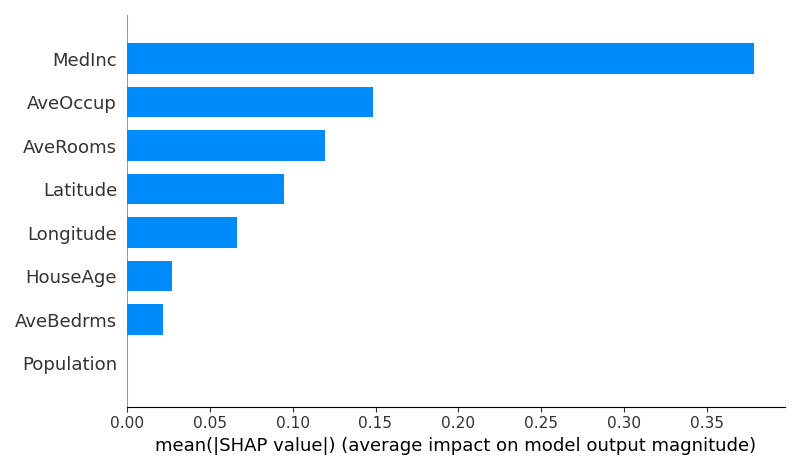
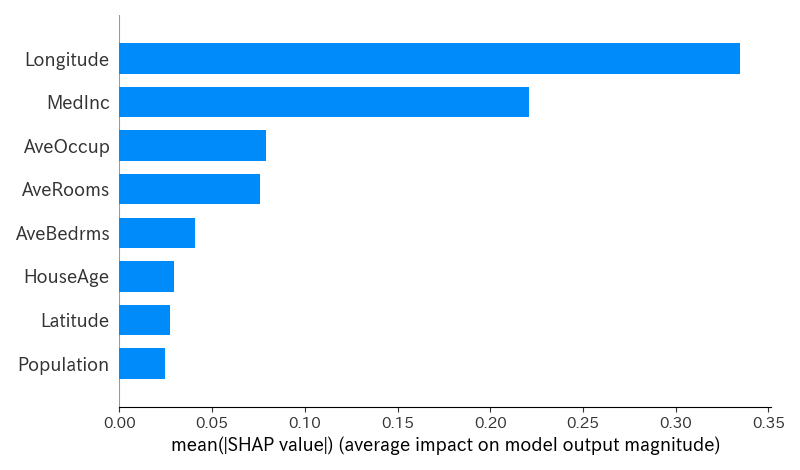
文字化け、1入力によるエラーを解消しました。

diff --git a/django_app/pls/templates/pls/shap.html b/django_app/pls/templates/pls/shap.html
@@ -10,7 +10,7 @@
     </div>
     </div>
     <div class="pcr-contents wrapper">
-    <p class="outline">SHAP値計算</p>
+    <p class="outline">ランダムフォレストにおけるSHAP値計算</p>
     <p>※縦はデータ、横は説明変数となるように、エクセルからコピーして貼り付けてください</p>
     <form action="{% url 'shap' %}" method="post">
         {% csrf_token %}
@@ -19,19 +19,19 @@
         <tr><th>説明変数:</th><td>{{ form.feature }}</td></tr>
         <tr><th>サンプル行番号:</th><td>{{ form.row_index }}</td></tr>
         </table>
-        <table class="params">
-        <tr><th>パラメータ</th><th class="header">最小値</th><th class="header">最大値</th><th class="header">分割数</th></tr>
+        <table class="params result">
+        <tr><th>パラメータ</th><td class="header">最小値</td><td class="header">最大値</td><td class="header">分割数</td></td>
         <tr><th>平均する決定木:</th><td>{{ form.n_estimators_min }}</td><td>{{ form.n_estimators_max }}</td><td>{{ form.n_estimators_div }}</td></tr>
         <tr><th>深さ:</th><td>{{ form.max_depth_min }}</td><td>{{ form.max_depth_max }}</td><td>{{ form.max_depth_div }}</td></tr>
         <tr><th>特徴量の数:</th><td>{{ form.max_features_min }}</td><td>{{ form.max_features_max }}</td><td>{{ form.max_features_div }}</td></tr>
         </table>
         <div class="shap-button">
-        <input type="submit" value="計算" class="button">
-        <p>{{ message }}</p>
+        <input type="submit" value="計算" class="button" id="btn">
+        <p id="message">{{ message }}</p>
         </div>
     </form>
         {% if savefig %}
-        <table class="result">
+        <table class="result margin">
         <tr><th></th><td>最適パラメータ</td></tr>
         <tr><th>平均する決定木:</th><td>{{ params.n_estimators }}</td></tr>
         <tr><th>深さ:</th><td>{{ params.max_depth }}</td></tr>
@@ -42,4 +42,5 @@
         <p><img src="{% static '/pls/img/plot.png' %}" alt="plot"></p>
         {% endif %}
     </div>
+    <script src="{% static 'pls/js/shap.js' %}"></script>
 {% endblock %}

diff --git a/django_app/pls/static/pls/css/style.css b/django_app/pls/static/pls/css/style.css
@@ -335,13 +335,16 @@ label {
     text-align: left;
   }
   
-  table.result {
+  table.margin {
     margin-top: 100px;
+  }
+
+  table.result {
+    margin-top: 30px;
     margin-bottom: 50px;
     position: relative;
     left: 100px
   }
-
   .result td {
     text-align: center;
     font-size: 1.2em;
@@ -358,10 +361,9 @@ label {
     border-style: solid;
     border-collapse: collapse;
     padding: 1em;
-    margin: 1em;
   }
   .result tr:not(:first-child):hover {
-    background-color: #eee;
+    background-color: #efefef;
   }
   .result tr:first-child {
     background-color: #ddd;

diff --git a/django_app/pls/static/pls/js/shap.js b/django_app/pls/static/pls/js/shap.js
@@ -1,0 +1,8 @@
+document.addEventListener('DOMContentLoaded', function() {
+	let btn = document.getElementById('btn');
+	btn.addEventListener('click', function() {
+		document.getElementById('message2').classList.add('start')
+		document.getElementById('message2').innerHTML = 'ダウンロードを開始します<br>しばらくお待ちください...'
+	}, false);
+
+}, false);

diff --git a/django_app/pls/views.py b/django_app/pls/views.py
@@ -397,8 +397,8 @@ from sklearn.ensemble import RandomForestRegressor
 import shap
 import matplotlib.pyplot as plt
 from sklearn.model_selection import GridSearchCV
-from sklearn.model_selection import cross_val_score
 from sklearn.model_selection import KFold
+import japanize_matplotlib
 
 @login_required
 def shap_view(request):
@@ -421,6 +421,8 @@ def shap_view(request):
                 max_features_div = form.cleaned_data.get('max_features_div')
 
                 def get_params(min_value, max_value, div):
+                    if div == 1:
+                        return [max_value]
                     result = []
                     interval = (max_value - min_value) / (div - 1)
                     
@@ -436,7 +438,6 @@ def shap_view(request):
                 n_estimators = get_params(n_estimators_min, n_estimators_max, n_estimators_div)
                 max_depth = get_params(max_depth_min, max_depth_max, max_depth_div)
                 max_features = get_params(max_features_min, max_features_max, max_features_div)
-
 
                 li1 = target.split()
                 y = pd.DataFrame(li1[1:], columns=[li1[0]], dtype=float)
@@ -462,18 +463,18 @@ def shap_view(request):
                 explainer= shap.TreeExplainer(grid.best_estimator_)
                 shap_values = explainer.shap_values(X)
                 shap.summary_plot(shap_values=shap_values,
-                                features=X,
-                                plot_type='bar',
-                                show=False)
+                                  features=X,
+                                  plot_type='bar',
+                                  show=False)
                 path_bar = THIS_FOLDER / 'static' / 'pls' / 'img' / 'bar.png'
                 plt.savefig(path_bar)
                 plt.close()
 
                 shap.initjs()
                 shap.plots._waterfall.waterfall_legacy(expected_value=explainer.expected_value[0],
-                                                    shap_values=shap_values[row_index, :],
-                                                    features=X.iloc[row_index, :],
-                                                    show=False)
+                                                       shap_values=shap_values[row_index, :],
+                                                       features=X.iloc[row_index, :],
+                                                       show=False)
                 
                 path_plot = THIS_FOLDER / 'static' / 'pls' / 'img' / 'plot.png'
                 plt.savefig(path_plot)

diff --git a/django_app/pls/forms.py b/django_app/pls/forms.py
@@ -38,10 +38,10 @@ class ShapForm(forms.Form):
     row_index = forms.IntegerField(label='サンプル行番号', min_value=0)
     n_estimators_min = forms.IntegerField(label='平均する決定木の最小値', min_value=1)
     n_estimators_max = forms.IntegerField(label='平均する決定木の最大値', min_value=1)
-    n_estimators_div = forms.IntegerField(label='平均する決定木の分割数', min_value=2)
+    n_estimators_div = forms.IntegerField(label='平均する決定木の分割数', min_value=1)
     max_depth_min = forms.IntegerField(label='深さの最小値', min_value=1)
     max_depth_max = forms.IntegerField(label='深さの最大値', min_value=1)
-    max_depth_div = forms.IntegerField(label='深さの分割数', min_value=2)
+    max_depth_div = forms.IntegerField(label='深さの分割数', min_value=1)
     max_features_min = forms.IntegerField(label='特徴量の最小値', min_value=1)
     max_features_max = forms.IntegerField(label='特徴量の最大値', min_value=1)
-    max_features_div = forms.IntegerField(label='特徴量の分割数', min_value=2)
+    max_features_div = forms.IntegerField(label='特徴量の分割数', min_value=1)
